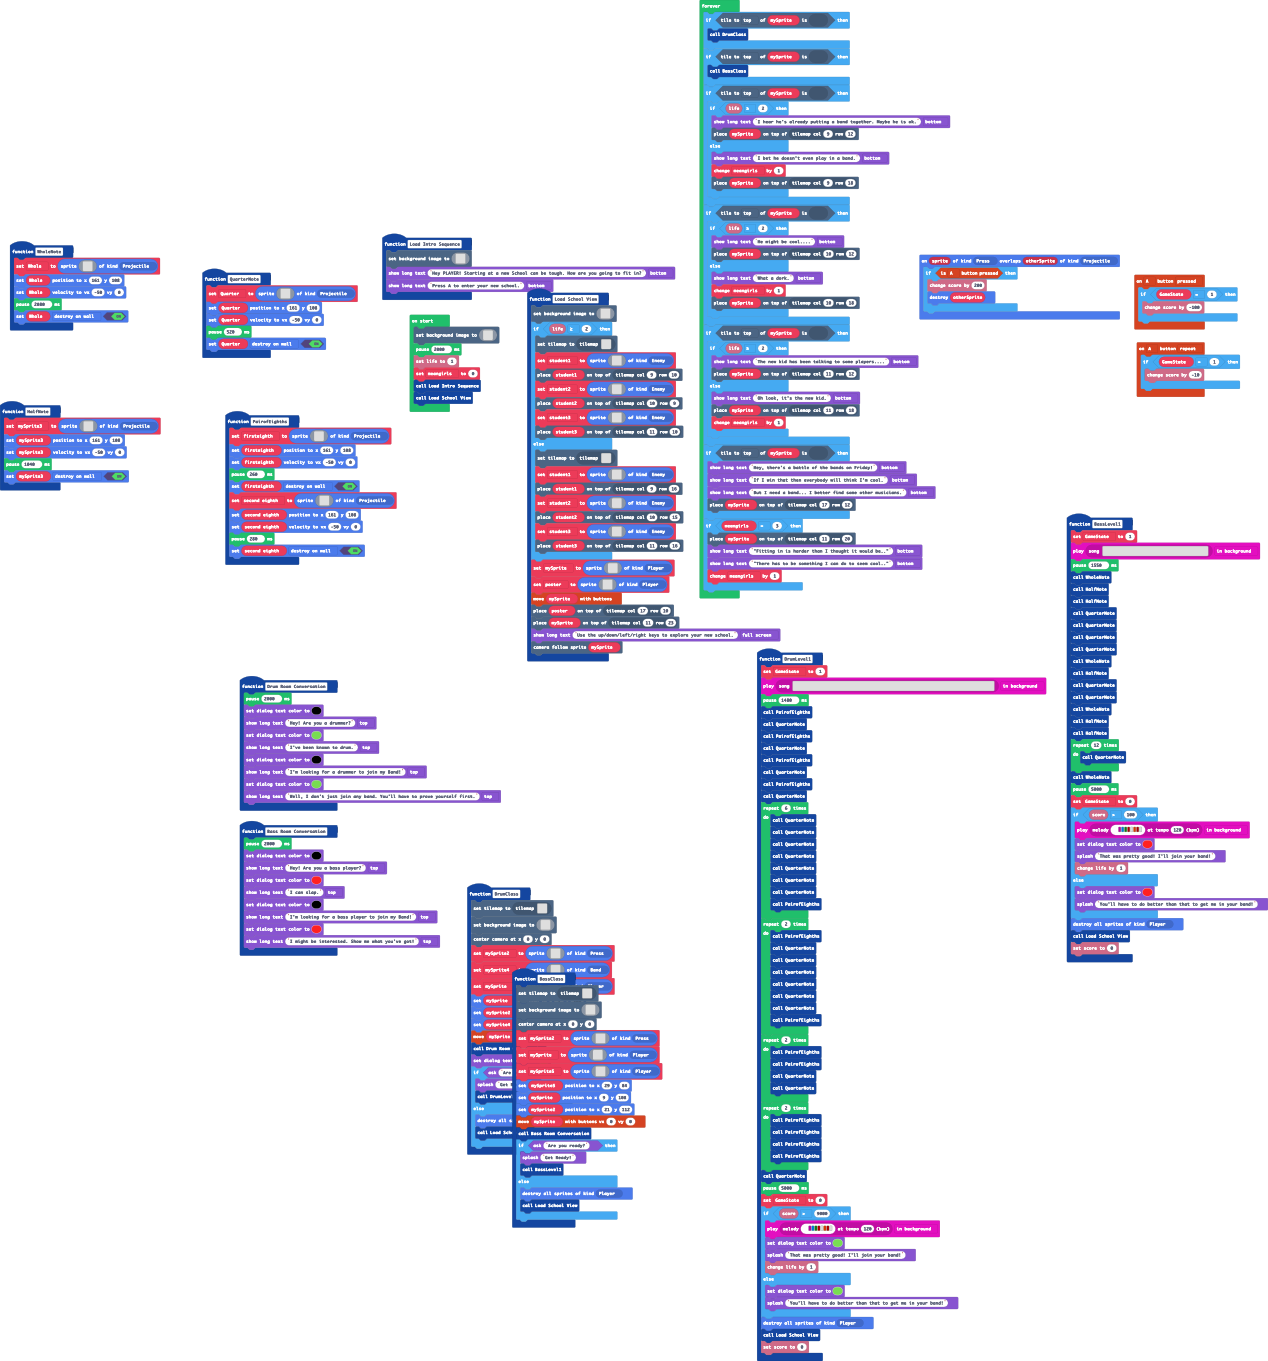
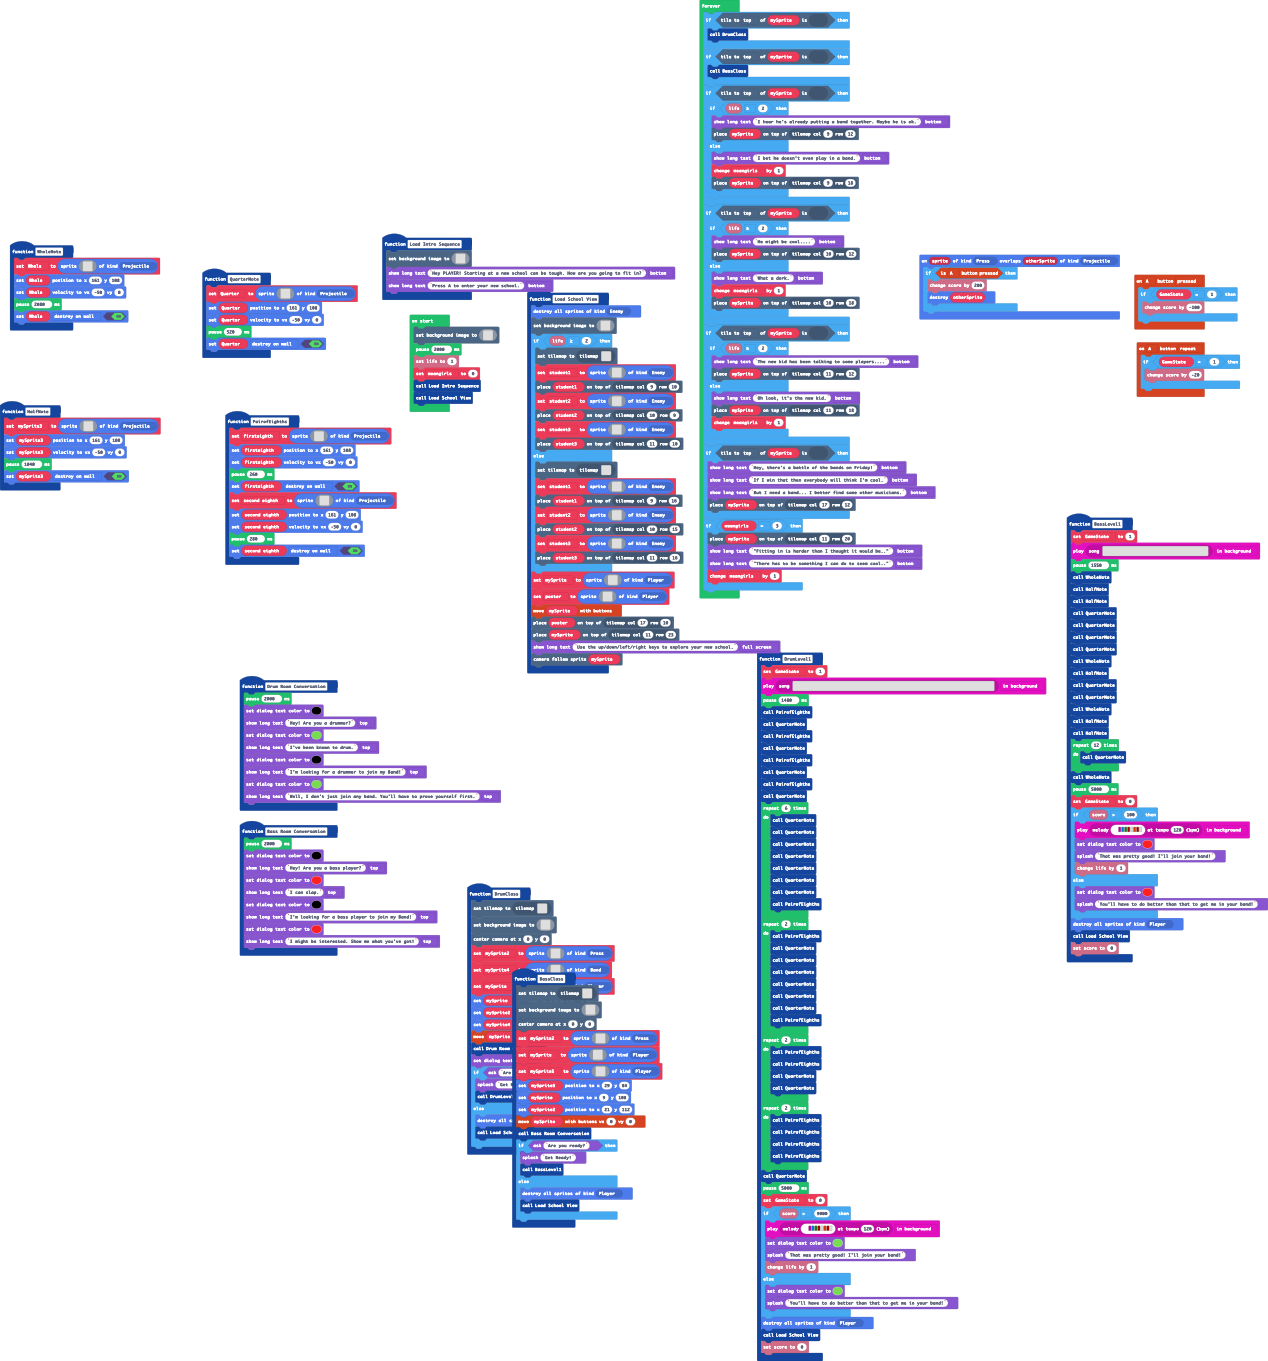
Final Changes we hope

Changed region(s): [[0.3998, 0.216, 0.6151, 0.4938]]

diff --git a/main.ts b/main.ts
@@ -138,12 +138,12 @@ function QuarterNote () {
 }
 function Load_Intro_Sequence () {
     scene.setBackgroundImage(assets.image`School Front`)
-    game.showLongText("Hey PLAYER! Starting at a new School can be tough. How are you going to fit in?", DialogLayout.Bottom)
+    game.showLongText("Hey PLAYER! Starting at a new school can be tough. How are you going to fit in?", DialogLayout.Bottom)
     game.showLongText("Press A to enter your new school.", DialogLayout.Bottom)
 }
 controller.A.onEvent(ControllerButtonEvent.Repeated, function () {
     if (GameState == 1) {
-        info.changeScoreBy(-10)
+        info.changeScoreBy(-20)
     }
 })
 function BassClass () {
@@ -178,6 +178,7 @@ function Drum_Room_Conversation () {
     game.showLongText("Well, I don't just join any band. You'll have to prove yourself first.", DialogLayout.Top)
 }
 function Load_School_View () {
+    sprites.destroyAllSpritesOfKind(SpriteKind.Enemy)
     scene.setBackgroundImage(img`
         ................................................................................................................................................................
         ................................................................................................................................................................
